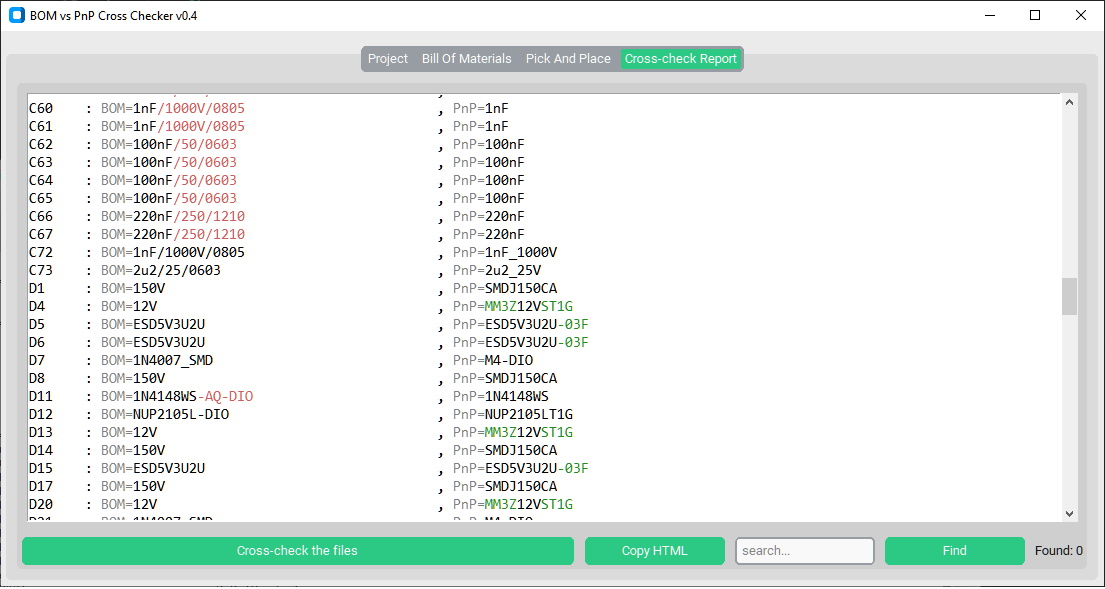
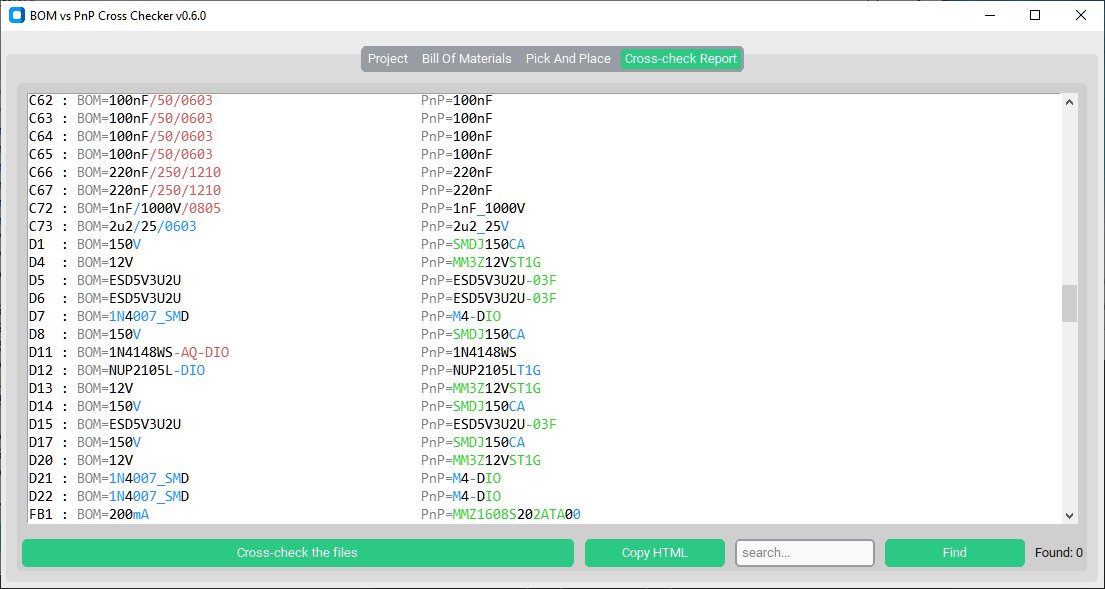
Report: comment comparison is done by difflib to get char-by-char differences

diff --git a/src/report_generator.py b/src/report_generator.py
@@ -1,5 +1,6 @@
 import time
-import logging
+# import logging
+import difflib
 
 from text_grid import *
 import cross_check
@@ -19,7 +20,7 @@ def __html_header(content: str) -> str:
 
 def __html_section_begin() -> str:
     # https://www.w3schools.com/tags/tag_pre.asp
-    return f'<pre style="font-family: Consolas; font-size: 80%">{EOL}'
+    return f'<pre style="font-family: Consolas, monospace; font-size: 80%">{EOL}'
 
 def __html_section_end() -> str:
     return f'</pre>{EOL}'
@@ -31,30 +32,37 @@ def __html_span_red(content: str) -> str:
     return f'<span style="color: IndianRed">{content}</span>'
 
 def __html_span_green(content: str) -> str:
-    return f'<span style="color: ForestGreen">{content}</span>'
+    return f'<span style="color: LimeGreen">{content}</span>'
+
+def __html_span_blue(content: str) -> str:
+    return f'<span style="color: DodgerBlue">{content}</span>'
 
 def __html_span_gray(content: str) -> str:
     return f'<span style="color: Gray">{content}</span>'
 
 def __format_comment(designator: str, designator_w: int, bom_cmnt: str, bom_w: int, pnp_cmnt: str) -> str:
-    # sourcery skip: inline-immediately-returned-variable
-    ### format BOM comment:
-    pnp_in_bom_idx = bom_cmnt.lower().find(pnp_cmnt.lower())
-    if pnp_in_bom_idx > -1:
-        before = bom_cmnt[:pnp_in_bom_idx]
-        after = bom_cmnt[pnp_in_bom_idx + len(pnp_cmnt):]
-        bom_comment = __html_span_red(before) + pnp_cmnt + __html_span_red(after)
-        bom_comment += ' ' * max(0, bom_w - len(bom_cmnt))
-    else:
-        bom_comment = bom_cmnt + ' ' * max(0, bom_w - len(bom_cmnt))
+    bom_comment = ""
+    pnp_comment = ""
 
-    ### format PnP comment:
-    pnp_comment = pnp_cmnt
-    bom_in_pnp_idx = pnp_comment.lower().find(bom_cmnt.lower())
-    if bom_in_pnp_idx > -1:
-        before = pnp_comment[:bom_in_pnp_idx]
-        after = pnp_comment[bom_in_pnp_idx + len(bom_cmnt):]
-        pnp_comment = __html_span_green(before) + bom_cmnt + __html_span_green(after)
+    # https://docs.python.org/3/library/difflib.html
+    sm = difflib.SequenceMatcher(None, bom_cmnt, pnp_cmnt)
+    for tag, i1, i2, j1, j2 in sm.get_opcodes():
+        if tag == 'replace':
+            # a[i1:i2] should be replaced by b[j1:j2].
+            bom_comment += __html_span_blue(bom_cmnt[i1:i2])
+            pnp_comment += __html_span_blue(pnp_cmnt[j1:j2])
+        elif tag == 'delete':
+            # a[i1:i2] should be deleted. Note that j1 == j2 in this case.
+            bom_comment += __html_span_red(bom_cmnt[i1:i2])
+        elif tag == 'insert':
+            # b[j1:j2] should be inserted at a[i1:i1]. Note that i1 == i2 in this case.
+            pnp_comment += __html_span_green(pnp_cmnt[j1:j2])
+        elif tag == 'equal':
+            # a[i1:i2] == b[j1:j2] (the sub-sequences are equal).
+            bom_comment += bom_cmnt[i1:i2]
+            pnp_comment += pnp_cmnt[j1:j2]
+
+    bom_comment += ' ' * max(0, bom_w - len(bom_cmnt))
 
     ### output:
     out = '{desgn:{w}}: {bom}{bom_comment} {pnp}{pnp_comment}{eol}'.format(

diff --git a/CHANGELOG.md b/CHANGELOG.md
@@ -5,6 +5,8 @@ See the description: https://keepachangelog.com/en/1.0.0/
 ## 0.6.0 - 2023-07-10
 
 * Added
+  * once the BOM and PnP files are loaded successfully, every time you click the `Cross-check the files` will reload these files before comparison
+  * item comment comparison: text diff library used to detect differences char-by-char
 * Changed
 * Deprecated
 * Removed
